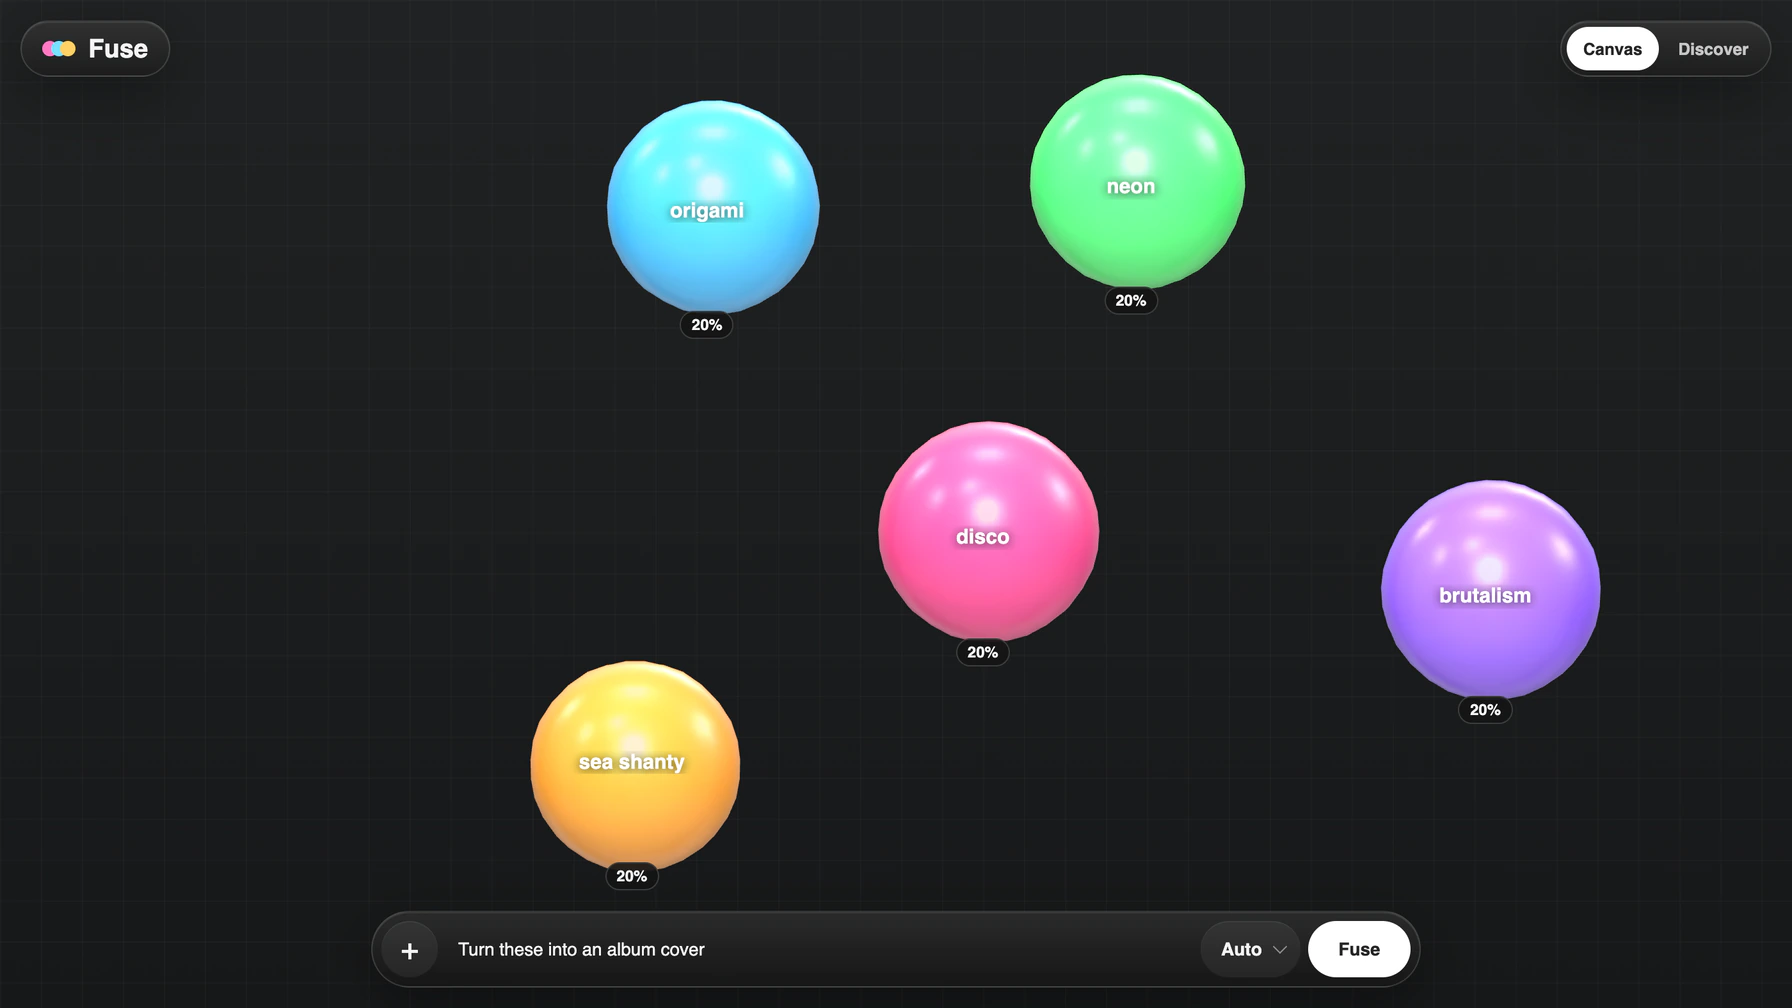
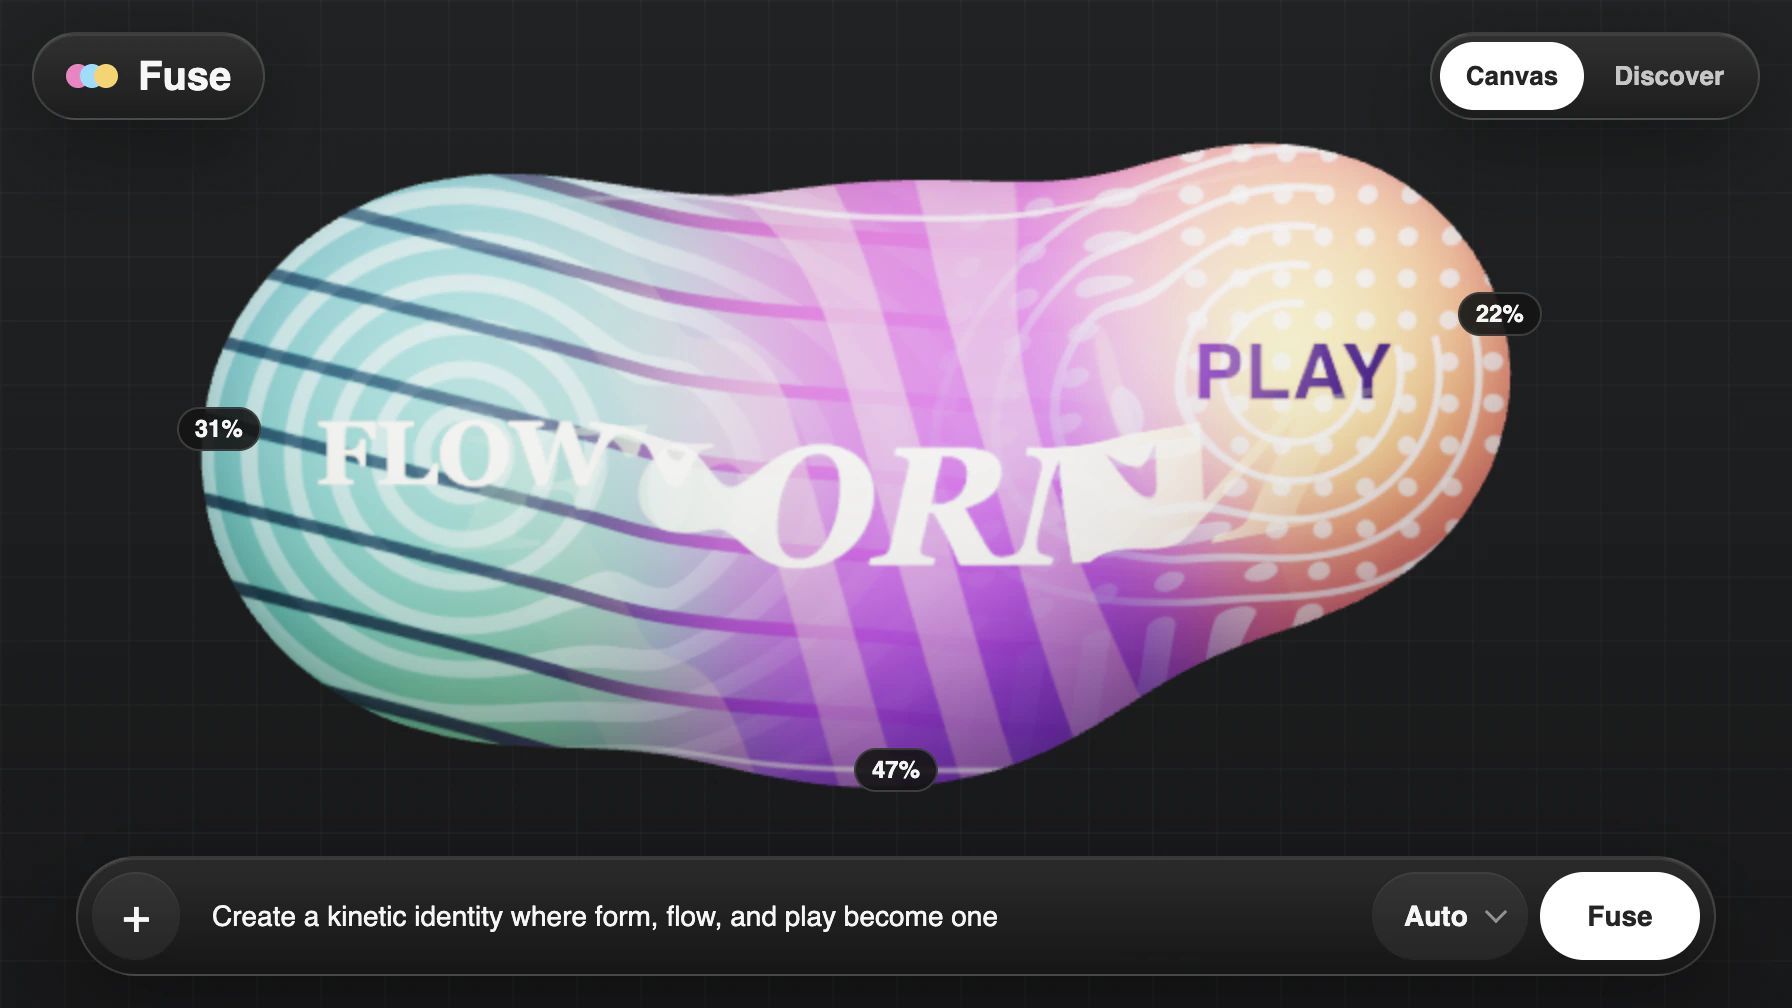
Swap in a new Fuse preview
One shape instead of five loose blobs, and the weights are on it, so
the caption's "weighted ingredients" now has something to point at.
The dark panel also does more work between the story above it and the
writing below.

Alt text was still naming the old ingredients. It describes what is
actually on screen now.

Ninety six kilobytes at q92, up from forty eight. The gradients band
below that and this is the largest image on the page.

diff --git a/src/content.js b/src/content.js
@@ -20,7 +20,7 @@ const site = {
     title: "Fuse",
     label: "Live tool",
     description: "Blend weighted ingredients into a new output on a freeform canvas.",
-    alt: "Fuse canvas blending disco, origami, sea shanty, neon, and brutalism into an album cover.",
+    alt: "Fuse canvas with flow, form, and play blended into one shape, each ingredient holding its own share of the result.",
     image: "assets/fuse/fuse-preview.webp",
     url: "https://fuse-catterson-gcakeab6etetcaaq.westus2-01.azurewebsites.net",
   },
